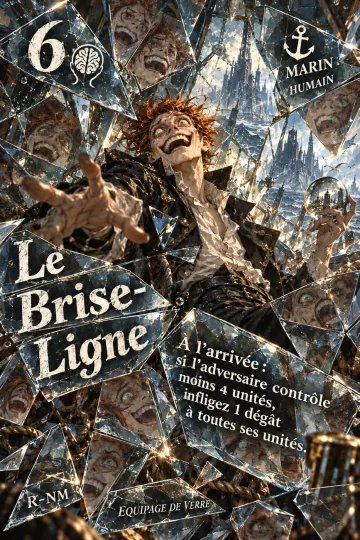
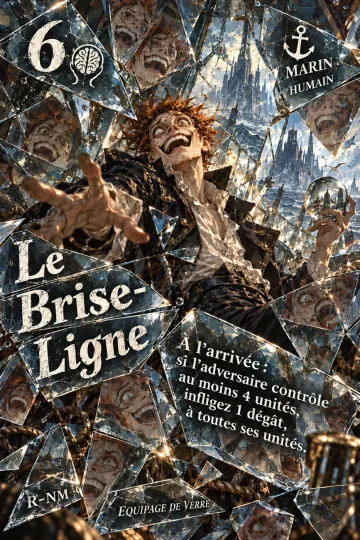
Illustrations manquantes visibles, nouvelles Styled / Full-Art, Brise-Ligne repeint
- Collection : les Styled / Full-Art qu'un booster propose et que le
  joueur n'a pas s'affichent estompées après la carte (pas en vue
  « Possédées ») ; le filtre « Édition » les montre aussi.
- Contenu d'un booster : chaque illustration dit « Possédée » ou sa
  chance, et « Manquantes seulement » ne garde que celles à trouver
  (fetchBoosterInventory lit les illustrations possédées).
- Nouvelles illustrations : Le Gardien des Jouets, Le Géant qui croyait
  être discret, L'Entendant, Reine des Charognes, Signal de Détresse
  (Styled + Full-Art), Mousse des Quarts (Styled). Réparties dans leur
  booster : le Défaut et La Veillée des Disparus en ont enfin.
- Full-Art relues : Brise-Ligne repeint (« au moins » rétabli, virgule
  en trop assumée), Gardien des Jouets (« Garde — » assumé) ; Géant à
  repeindre (« inflige » au lieu de « infligez »). Nouveau champ
  `ecartMineur`, motif obligatoire.

diff --git a/game/cosmetics/artworks.ts b/game/cosmetics/artworks.ts
@@ -56,9 +56,11 @@ interface CardAlternateArt {
    * `textePeint` : le texte d'effet tel qu'il est PEINT sur la Full-Art
    * (relu sur l'image le 18/10/2026). `aRepeindre` : le texte peint ne dit
    * pas ce que dit la carte — la Full-Art reste hors collection et hors
-   * booster tant qu'elle n'est pas repeinte.
+   * booster tant qu'elle n'est pas repeinte. `ecartMineur` : une différence
+   * de ponctuation qui ne change pas le sens, assumée avec son motif (comme
+   * les `EXCEPTIONS` de la conformité des cartes).
    */
-  fullArt?: { textePeint: string; aRepeindre?: string };
+  fullArt?: { textePeint: string; aRepeindre?: string; ecartMineur?: string };
 }
 
 /** Cartes qui ont une illustration alternative. Ordre alphabétique des ids. */
@@ -100,9 +102,10 @@ const ALTERNATE_ARTS: Record<string, CardAlternateArt> = {
   "la-taverne-avant-le-donjon": { styled: true, fullArt: { textePeint: "Première unité alliée renvoyée en main pendant votre tour : récupérez 1 Ancrage." } },
   "le-brise-ligne": {
     styled: true,
+    // Repeinte le 18/10/2026 : « au moins » rétabli.
     fullArt: {
-      textePeint: "À l'arrivée : si l'adversaire contrôle moins 4 unités, infligez 1 dégât à toutes ses unités.",
-      aRepeindre: "« au » manque devant « moins 4 unités » : le sens s'inverse.",
+      textePeint: "À l'arrivée : si l'adversaire contrôle au moins 4 unités, infligez 1 dégât, à toutes ses unités.",
+      ecartMineur: "Une virgule après « 1 dégât » : le sens est le même.",
     },
   },
   "le-nain-qui-connait-un-raccourci": {
@@ -110,8 +113,36 @@ const ALTERNATE_ARTS: Record<string, CardAlternateArt> = {
     fullArt: { textePeint: "À l'arrivée : sur 3-4, votre prochaine carte coûte 1 de moins ce tour. Réussite critique : elle coûte 2 de moins à la place." },
   },
   "le-naufrage-impossible": { styled: true, fullArt: { textePeint: "La première fois qu'il devrait être détruit, il reste en jeu avec 1 Résistance." } },
-  // Full-Art livrée le 18/10/2026 sans Styled.
+  "le-gardien-des-jouets": {
+    styled: true,
+    fullArt: {
+      textePeint: "Garde — Chaque autre Mort-vivant allié détruit ou Sabordé lui donne +1/+1.",
+      ecartMineur: "« Garde — » au lieu de « Garde. » : le mot-clé reste en tête, le sens est le même.",
+    },
+  },
+  "le-geant-qui-croyait-etre-discret": {
+    styled: true,
+    fullArt: {
+      textePeint:
+        "À l'arrivée : sur 4+, gagne Pied marin ce tour. Réussite critique : lorsqu'il attaque ce tour, inflige aussi 2 dégâts au Navire adverse.",
+      aRepeindre: "« inflige » au lieu de « infligez » : le texte peint ne dit pas les mots de la carte.",
+    },
+  },
+  lentendant: {
+    styled: true,
+    fullArt: { textePeint: "Éveil — piochez 1. Si c'est son deuxième Éveil ce tour, piochez-en 2 à la place." },
+  },
+  "reine-des-charognes": {
+    styled: true,
+    fullArt: { textePeint: "Quand une autre unité alliée meurt, mettez +1 / +1 sur une autre unité." },
+  },
+  "signal-de-detresse": {
+    styled: true,
+    fullArt: { textePeint: "Chaîne — Lorsque votre Navire devrait subir des dégâts directs pendant le tour adverse : réduisez-les de 3." },
+  },
+  // Full-Art livrée le 18/10/2026, Styled le même soir.
   "mousse-des-quarts": {
+    styled: true,
     fullArt: { textePeint: "A son arrivée, piochez 1 carte puis défaussez 1 carte.", aRepeindre: "« À » peint sans accent." },
   },
   "relance-j-te-jure": { styled: true, fullArt: { textePeint: "Chaîne — Relancez le dé en cours et gardez le nouveau résultat." } },
@@ -136,7 +167,7 @@ export function cardIdsWithAlternateArt(): string[] {
 }
 
 /** La Full-Art livrée d'une carte (même à repeindre), `undefined` si elle n'en a pas. */
-export function paintedFullArt(cardId: string): { textePeint: string; aRepeindre?: string } | undefined {
+export function paintedFullArt(cardId: string): { textePeint: string; aRepeindre?: string; ecartMineur?: string } | undefined {
   return ALTERNATE_ARTS[cardId]?.fullArt;
 }
 

diff --git a/features/collection/CollectionScreen.tsx b/features/collection/CollectionScreen.tsx
@@ -4,6 +4,8 @@ import { useCallback, useEffect, useMemo, useState } from "react";
 import type { CardDefinition } from "@/game";
 import { RARE_CARD_FINISHES } from "@/game/cosmetics/finishes";
 import { RARE_CARD_ARTWORKS } from "@/game/cosmetics/artworks";
+import { obtainableArtworksOf } from "@/game/boosters/boosterArtworks";
+import type { GridEdition } from "@/features/collection/CardGrid";
 import { CLASSIC_EDITION, editionRank, type CardEdition, type OwnedEdition } from "@/game/cosmetics/editions";
 import type { EditionFilter } from "@/features/collection/CollectionSidebar";
 import { CardShelfProvider, type ShelfBackend } from "@/features/collection/shelf/CardShelfProvider";
@@ -58,6 +60,17 @@ const AUCUN_AFFICHAGE: Record<string, CardEdition> = {};
 /** Éditions rares possédées d'une carte, de la moins à la plus rare. */
 function editionsPossedees(liste: OwnedEdition[] | undefined): OwnedEdition[] {
   return (liste ?? []).filter((e) => e.quantity > 0).sort((a, b) => editionRank(a) - editionRank(b));
+}
+
+/**
+ * Illustrations qu'un booster propose pour cette carte et que le joueur n'a
+ * dans AUCUNE finition : elles s'affichent estompées, comme une carte
+ * manquante — la collection montre aussi ce qui reste à trouver.
+ */
+function illustrationsManquantes(cardId: string, possedees: OwnedEdition[]): GridEdition[] {
+  return obtainableArtworksOf(cardId)
+    .filter((artwork) => !possedees.some((e) => e.artwork === artwork))
+    .map((artwork) => ({ artwork, finish: "classique" as const, missing: true }));
 }
 
 /** L'édition répond-elle au filtre « Édition » (une illustration, ou une finition) ? */
@@ -126,7 +139,10 @@ function CollectionScreenBody({
   const shownCards = useMemo(
     () =>
       editionFilter
-        ? browser.cards.filter((def) => editionsPossedees(ownedEditions[def.id]).some((e) => matchesFilter(e, editionFilter)))
+        ? browser.cards.filter((def) => {
+            const possedees = editionsPossedees(ownedEditions[def.id]);
+            return [...possedees, ...illustrationsManquantes(def.id, possedees)].some((e) => matchesFilter(e, editionFilter));
+          })
         : browser.cards,
     [browser.cards, editionFilter, ownedEditions]
   );
@@ -152,13 +168,15 @@ function CollectionScreenBody({
   // ensemble. Une carte possédée seulement en édition rare n'a pas de cellule
   // Classique ; le filtre « Édition » ne montre que les siennes.
   const editionsFor = useCallback(
-    (def: CardDefinition): CardEdition[] => {
+    (def: CardDefinition): GridEdition[] => {
       const rares = editionsPossedees(ownedEditions[def.id]);
-      if (editionFilter) return rares.filter((e) => matchesFilter(e, editionFilter));
-      if (rares.length === 0) return [CLASSIC_EDITION];
-      return classicCount(def.id) > 0 ? [CLASSIC_EDITION, ...rares] : rares;
+      // « Possédées » : rien d'estompé. Sinon, les illustrations manquantes suivent la carte.
+      const manquantes = browser.filters.ownership === "owned" ? [] : illustrationsManquantes(def.id, rares);
+      if (editionFilter) return [...rares, ...manquantes].filter((e) => matchesFilter(e, editionFilter));
+      const base = rares.length === 0 || classicCount(def.id) > 0 ? [CLASSIC_EDITION, ...rares] : rares;
+      return [...base, ...manquantes];
     },
-    [editionFilter, ownedEditions, classicCount]
+    [editionFilter, ownedEditions, classicCount, browser.filters.ownership]
   );
   const [detailCardId, setDetailCardId] = useState<string | null>(null);
   // L'édition de la cellule touchée : la fiche s'ouvre sur CET exemplaire.

diff --git a/features/market/BoosterContentsDialog.tsx b/features/market/BoosterContentsDialog.tsx
@@ -21,6 +21,8 @@ import { StatusTag } from "@/features/shell/StatusTag";
 interface BoosterContentsDialogProps {
   booster: BoosterInventoryEntry;
   owned: ReadonlySet<string>;
+  /** Illustrations possédées, `<cardId>/<illustration>` ; absent : aucune. */
+  ownedArtworks?: ReadonlySet<string>;
   onClose: () => void;
 }
 
@@ -47,7 +49,7 @@ function safeName(cardId: string): string {
  * ferment. Même panneau au Market (« Contenu ») et aux Boosters
  * (« Cartes de l'extension »).
  */
-export function BoosterContentsDialog({ booster, owned, onClose }: BoosterContentsDialogProps) {
+export function BoosterContentsDialog({ booster, owned, ownedArtworks, onClose }: BoosterContentsDialogProps) {
   // Mémorisés sur l'appareil : d'un booster à l'autre, on cherche la même chose.
   const [rarity, setRarity] = usePersistedState<CardRarity | null>("contenu-booster:rarete", null, {
     decode: (raw) => oneOf<CardRarity | null>([null, ...RARITY_ORDER], raw),
@@ -77,12 +79,18 @@ export function BoosterContentsDialog({ booster, owned, onClose }: BoosterConten
   const illustrations = useMemo(
     () =>
       boosterArtworkEntries(booster.boosterId)
-        .map((entry) => ({ ...entry, name: safeName(entry.cardId), rarity: unique.find((card) => card.cardId === entry.cardId)?.rarity }))
+        .map((entry) => ({
+          ...entry,
+          name: safeName(entry.cardId),
+          rarity: unique.find((card) => card.cardId === entry.cardId)?.rarity,
+          owned: ownedArtworks?.has(`${entry.cardId}/${entry.artwork}`) ?? false,
+        }))
         .filter((entry) => entry.rarity !== undefined)
         .sort((a, b) => (a.artwork === b.artwork ? a.name.localeCompare(b.name, "fr") : a.artwork === "styled" ? -1 : 1)),
-    [booster.boosterId, unique]
+    [booster.boosterId, unique, ownedArtworks]
   );
-  const shownIllustrations = missingOnly ? [] : illustrations.filter((entry) => !rarity || entry.rarity === rarity);
+  // « Manquantes seulement » vaut aussi pour elles : une illustration jamais tirée est à chercher.
+  const shownIllustrations = illustrations.filter((entry) => (!rarity || entry.rarity === rarity) && (!missingOnly || !entry.owned));
 
   const ownedCount = unique.filter((card) => card.owned).length;
   const rarities = RARITY_ORDER.filter((entry) => unique.some((card) => card.rarity === entry));
@@ -171,6 +179,7 @@ export function BoosterContentsDialog({ booster, owned, onClose }: BoosterConten
                   className={styles.card}
                   data-rarity={entry.rarity}
                   data-artwork={entry.artwork}
+                  data-owned={entry.owned ? "true" : "false"}
                   onClick={() => {
                     playButtonClick();
                     setDetail({ cardId: entry.cardId, edition: { artwork: entry.artwork, finish: "classique" } });
@@ -182,7 +191,7 @@ export function BoosterContentsDialog({ booster, owned, onClose }: BoosterConten
                   <span className={styles.rarity}>{CARD_ARTWORK_LABELS[entry.artwork]}</span>
                 </button>
                 <span className={styles.status}>
-                  <span className={styles.artworkTag}>1 / {Math.round(1 / CARD_ARTWORK_ODDS[entry.artwork])}</span>
+                  {entry.owned ? <StatusTag tone="owned">Possédée</StatusTag> : <span className={styles.artworkTag}>1 / {Math.round(1 / CARD_ARTWORK_ODDS[entry.artwork])}</span>}
                 </span>
               </li>
             ))}

diff --git a/game/boosters/boosterArtworks.ts b/game/boosters/boosterArtworks.ts
@@ -1,10 +1,12 @@
 import { hasArtwork, type RareCardArtwork } from "@/game/cosmetics/artworks";
 import {
+  BOOSTER_DEFAUT,
   BOOSTER_DUNGEON_ET_LADALLE,
   BOOSTER_ECLATS_EN_SELLE,
   BOOSTER_ETRANGETE_SOUS_MARINE,
   BOOSTER_LA_MUTATION_MONDIALE,
   BOOSTER_NECESSAIRE_DU_MARIN,
+  BOOSTER_VEILLEE_DES_DISPARUS,
 } from "@/game/boosters/pools";
 
 /**
@@ -20,18 +22,26 @@ import {
  * APRÈS la carte.
  *
  * Répartition de départ : chaque illustration dans le(s) booster(s) d'où sa
- * carte sort déjà. Le Défaut, Poissons pas frais et La Veillée des Disparus
- * n'en ont donc aucune tant qu'une de leurs cartes n'a pas été illustrée.
+ * carte sort déjà. Poissons pas frais n'en a aucune tant qu'une de ses
+ * cartes n'a pas été illustrée.
  * Une Full-Art à repeindre (`aRepeindre`) reste écartée même listée.
  */
 const STYLED_ET_FULL_ART: readonly RareCardArtwork[] = ["styled", "styled-fa"];
 
 export const BOOSTER_ARTWORKS: Readonly<Record<string, Readonly<Record<string, readonly RareCardArtwork[]>>>> = {
+  [BOOSTER_DEFAUT]: {
+    "mousse-des-quarts": STYLED_ET_FULL_ART,
+  },
   [BOOSTER_NECESSAIRE_DU_MARIN]: {
     "chirurgien-du-bord": STYLED_ET_FULL_ART,
     "jugement-du-phare": STYLED_ET_FULL_ART,
     "le-brise-ligne": STYLED_ET_FULL_ART,
     "le-naufrage-impossible": STYLED_ET_FULL_ART,
+    "signal-de-detresse": STYLED_ET_FULL_ART,
+  },
+  [BOOSTER_VEILLEE_DES_DISPARUS]: {
+    "le-gardien-des-jouets": STYLED_ET_FULL_ART,
+    "mousse-des-quarts": STYLED_ET_FULL_ART,
   },
   [BOOSTER_ETRANGETE_SOUS_MARINE]: {
     "il-capitano-naufrage": STYLED_ET_FULL_ART,
@@ -44,11 +54,14 @@ export const BOOSTER_ARTWORKS: Readonly<Record<string, Readonly<Record<string, r
   [BOOSTER_LA_MUTATION_MONDIALE]: {
     "aberration-vorace": STYLED_ET_FULL_ART,
     "la-revenante": STYLED_ET_FULL_ART,
+    lentendant: STYLED_ET_FULL_ART,
+    "reine-des-charognes": STYLED_ET_FULL_ART,
   },
   [BOOSTER_DUNGEON_ET_LADALLE]: {
     "elyor-opalin-du-retour": STYLED_ET_FULL_ART,
     "gaston-aventurier-de-ladalle": STYLED_ET_FULL_ART,
     "la-taverne-avant-le-donjon": STYLED_ET_FULL_ART,
+    "le-geant-qui-croyait-etre-discret": STYLED_ET_FULL_ART,
     "le-nain-qui-connait-un-raccourci": STYLED_ET_FULL_ART,
     "relance-j-te-jure": STYLED_ET_FULL_ART,
   },
@@ -62,4 +75,11 @@ export function boosterArtworksFor(boosterId: string, cardId: string): RareCardA
 /** Toutes les illustrations obtenables dans un booster : la liste « Cartes de l'extension ». */
 export function boosterArtworkEntries(boosterId: string): Array<{ cardId: string; artwork: RareCardArtwork }> {
   return Object.keys(BOOSTER_ARTWORKS[boosterId] ?? {}).flatMap((cardId) => boosterArtworksFor(boosterId, cardId).map((artwork) => ({ cardId, artwork })));
+}
+
+/** Illustrations d'une carte qu'AU MOINS un booster propose : celles qu'un joueur peut chercher. */
+export function obtainableArtworksOf(cardId: string): RareCardArtwork[] {
+  const found = new Set<RareCardArtwork>();
+  for (const boosterId of Object.keys(BOOSTER_ARTWORKS)) for (const artwork of boosterArtworksFor(boosterId, cardId)) found.add(artwork);
+  return (["styled", "styled-fa"] as const).filter((artwork) => found.has(artwork));
 }

diff --git a/features/boosters/actions.ts b/features/boosters/actions.ts
@@ -67,6 +67,11 @@ export interface BoosterInventory {
   boosters: BoosterInventoryEntry[];
   /** Cartes possédées (quantité > 0) — le Market dit, carte par carte, ce qu'on a déjà. */
   ownedCardIds: string[];
+  /**
+   * Illustrations alternatives possédées, `<cardId>/<illustration>` (toutes
+   * finitions confondues) : le contenu d'un booster dit lesquelles manquent.
+   */
+  ownedArtworks?: string[];
 }
 
 export interface OpenedCard {
@@ -157,7 +162,7 @@ export async function fetchBoosterInventory(): Promise<BoosterInventory> {
     if (!session) return empty;
     const { supabase, userId } = session;
 
-    const [definitions, owned, pity, currency, pools, ownedCards] = await Promise.all([
+    const [definitions, owned, pity, currency, pools, ownedCards, ownedEditions] = await Promise.all([
       supabase.from("booster_definitions").select("*").eq("is_enabled", true).order("id"),
       supabase.from("player_boosters").select("booster_definition_id, quantity, updated_at").eq("user_id", userId),
       supabase.from("player_pity").select("booster_definition_id, packs_since_abyssal").eq("user_id", userId),
@@ -171,6 +176,7 @@ export async function fetchBoosterInventory(): Promise<BoosterInventory> {
         .eq("cards.is_collectible", true)
         .eq("cards.is_enabled", true),
       supabase.from("player_cards").select("card_id").eq("user_id", userId).gt("quantity", 0),
+      readOwnedEditions(userId),
     ]);
 
     if (pools.error) console.error("[fetchBoosterInventory] Pools illisibles :", pools.error.message);
@@ -203,6 +209,13 @@ export async function fetchBoosterInventory(): Promise<BoosterInventory> {
         pool: poolByBooster.get(def.id) ?? [],
       })),
       ownedCardIds: (ownedCards.data ?? []).map((row) => row.card_id),
+      ownedArtworks: Array.from(
+        new Set(
+          Object.entries(ownedEditions).flatMap(([cardId, editions]) =>
+            editions.filter((edition) => edition.artwork !== "classique").map((edition) => `${cardId}/${edition.artwork}`)
+          )
+        )
+      ),
     };
   } catch (error) {
     console.error("[fetchBoosterInventory] Lecture impossible :", error);

diff --git a/features/collection/CardGrid.tsx b/features/collection/CardGrid.tsx
@@ -16,7 +16,10 @@ const STAGGER_COUNT = 12;
 /** Délai cosmétique avant d'ajouter le lot suivant — juste assez pour que l'indicateur de chargement soit perceptible. */
 const LOAD_DELAY_MS = 180;
 
-const CLASSIQUE_SEULE: readonly CardEdition[] = [CLASSIC_EDITION];
+/** Une cellule de la grille : une édition, `missing` quand elle n'est pas possédée (estompée). */
+export type GridEdition = CardEdition & { missing?: boolean };
+
+const CLASSIQUE_SEULE: readonly GridEdition[] = [CLASSIC_EDITION];
 
 /** Instance factice, pour afficher une carte hors de toute partie (stats de base, aucun état vivant). */
 function displayInstance(cardId: string): CardInstance {
@@ -133,7 +136,7 @@ interface CardGridProps {
    * juste après elle. Une liste vide ne montre rien de la carte. Absent :
    * une cellule Classique.
    */
-  editionsFor?: (def: CardDefinition) => readonly CardEdition[];
+  editionsFor?: (def: CardDefinition) => readonly GridEdition[];
 }
 
 /**
@@ -232,7 +235,8 @@ export function CardGrid({ cards, onCardClick, hasAnyCards, owned, emptyLabel, c
                   key={`${generation}:${def.id}:${editionKey(edition)}`}
                   def={def}
                   index={index}
-                  missing={Boolean(owned && !owned.has(def.id))}
+                  // Une illustration jamais tirée s'estompe comme une carte manquante.
+                  missing={edition.missing ?? Boolean(owned && !owned.has(def.id))}
                   onCardClick={onCardClick}
                   cellExtras={cellExtras}
                   onCardDragStart={onCardDragStart}

diff --git a/tests/game/cardArtworks.test.ts b/tests/game/cardArtworks.test.ts
@@ -58,6 +58,10 @@ describe("illustrations Styled / Styled Full-Art", () => {
         // Repeinte et juste : retirer le drapeau pour la rendre obtenable.
         expect(juste, `${cardId} : texte désormais juste, retirer « aRepeindre »`).toBe(false);
         expect(artworksOf(cardId)).not.toContain("styled-fa");
+      } else if (fullArt.ecartMineur) {
+        // Écart de ponctuation assumé : motif obligatoire, et il doit rester un écart.
+        expect(fullArt.ecartMineur.length, cardId).toBeGreaterThan(10);
+        expect(juste, `${cardId} : texte désormais exact, retirer « ecartMineur »`).toBe(false);
       } else {
         expect(juste, `${cardId} : le texte de la carte a changé, la Full-Art est à repeindre`).toBe(true);
       }
@@ -88,7 +92,7 @@ describe("illustrations Styled / Styled Full-Art", () => {
   it("la tuile de plateau, qui écrit nom et stats, n'affiche jamais une Full-Art", () => {
     expect(boardTileArtwork("aberration-vorace", "styled-fa")).toBe("styled");
     expect(boardTileArtwork("aberration-vorace", "styled")).toBe("styled");
-    expect(boardTileArtwork("mousse-des-quarts", "styled-fa")).toBe("classique");
+    expect(boardTileArtwork("mousse-des-quarts", "styled-fa")).toBe("styled");
     expect(boardTileArtwork("marin-des-jetees", "styled")).toBe("classique");
     expect(boardTileArtwork("aberration-vorace", undefined)).toBe("classique");
   });

diff --git a/features/market/MarketScreen.tsx b/features/market/MarketScreen.tsx
@@ -124,6 +124,7 @@ export function MarketScreen({ inventory, catalog, collectables, sandbox = false
   /** Booster dont on consulte le contenu. */
   const [contentsOf, setContentsOf] = useState<BoosterInventoryEntry | null>(null);
   const ownedSet = useMemo(() => new Set(inventory.ownedCardIds), [inventory.ownedCardIds]);
+  const ownedArtworkSet = useMemo(() => new Set(inventory.ownedArtworks ?? []), [inventory.ownedArtworks]);
 
   // Un booster non achetable (le Mini Booster de Bienvenue, offert) n'a rien
   // à faire dans une boutique : il s'obtient, il ne se vend pas.
@@ -571,7 +572,7 @@ export function MarketScreen({ inventory, catalog, collectables, sandbox = false
       </div>
 
       <ScreenToast message={toast} onDismiss={() => setToast(null)} />
-      {contentsOf && <BoosterContentsDialog booster={contentsOf} owned={ownedSet} onClose={() => setContentsOf(null)} />}
+      {contentsOf && <BoosterContentsDialog booster={contentsOf} owned={ownedSet} ownedArtworks={ownedArtworkSet} onClose={() => setContentsOf(null)} />}
     </GameScreen>
   );
 }

diff --git a/game/boosters/index.ts b/game/boosters/index.ts
@@ -14,7 +14,7 @@ export {
 } from "@/game/boosters/constants";
 
 export { abyssalChanceWithPity, drawBooster } from "@/game/boosters/draw";
-export { BOOSTER_ARTWORKS, boosterArtworkEntries, boosterArtworksFor } from "@/game/boosters/boosterArtworks";
+export { BOOSTER_ARTWORKS, boosterArtworkEntries, boosterArtworksFor, obtainableArtworksOf } from "@/game/boosters/boosterArtworks";
 // La rareté d'une carte est une donnée de CODE : les écritures en base en
 // découlent (`scripts/seedCards.ts`), jamais l'inverse.
 export { rarityForCardId, cardIdsMissingRarity, assertRarityCoverage } from "@/game/boosters/cardRarity";

diff --git a/tests/game/cardEditions.test.ts b/tests/game/cardEditions.test.ts
@@ -33,7 +33,7 @@ describe("éditions de carte", () => {
     expect(boosterArtworksFor("standard", "aberration-vorace")).toEqual([]);
     expect(boosterArtworksFor("standard", "marin-des-jetees")).toEqual([]);
     // Full-Art à repeindre : jamais proposée, même répartie.
-    expect(boosterArtworksFor("necessaire-du-marin", "le-brise-ligne")).toEqual(["styled"]);
+    expect(boosterArtworksFor("dungeon-et-ladalle", "le-geant-qui-croyait-etre-discret")).toEqual(["styled"]);
   });
 
   it("le tirage d'illustration respecte ses chances, sans reporter une illustration absente sur l'autre", () => {

diff --git a/features/boosters/BoostersScreen.tsx b/features/boosters/BoostersScreen.tsx
@@ -583,6 +583,7 @@ export function BoostersScreen({ inventory, sandbox = false }: BoostersScreenPro
         <BoosterContentsDialog
           booster={contentsOf}
           owned={new Set(inventory.ownedCardIds)}
+          ownedArtworks={new Set(inventory.ownedArtworks ?? [])}
           onClose={() => setContentsOf(null)}
         />
       )}
